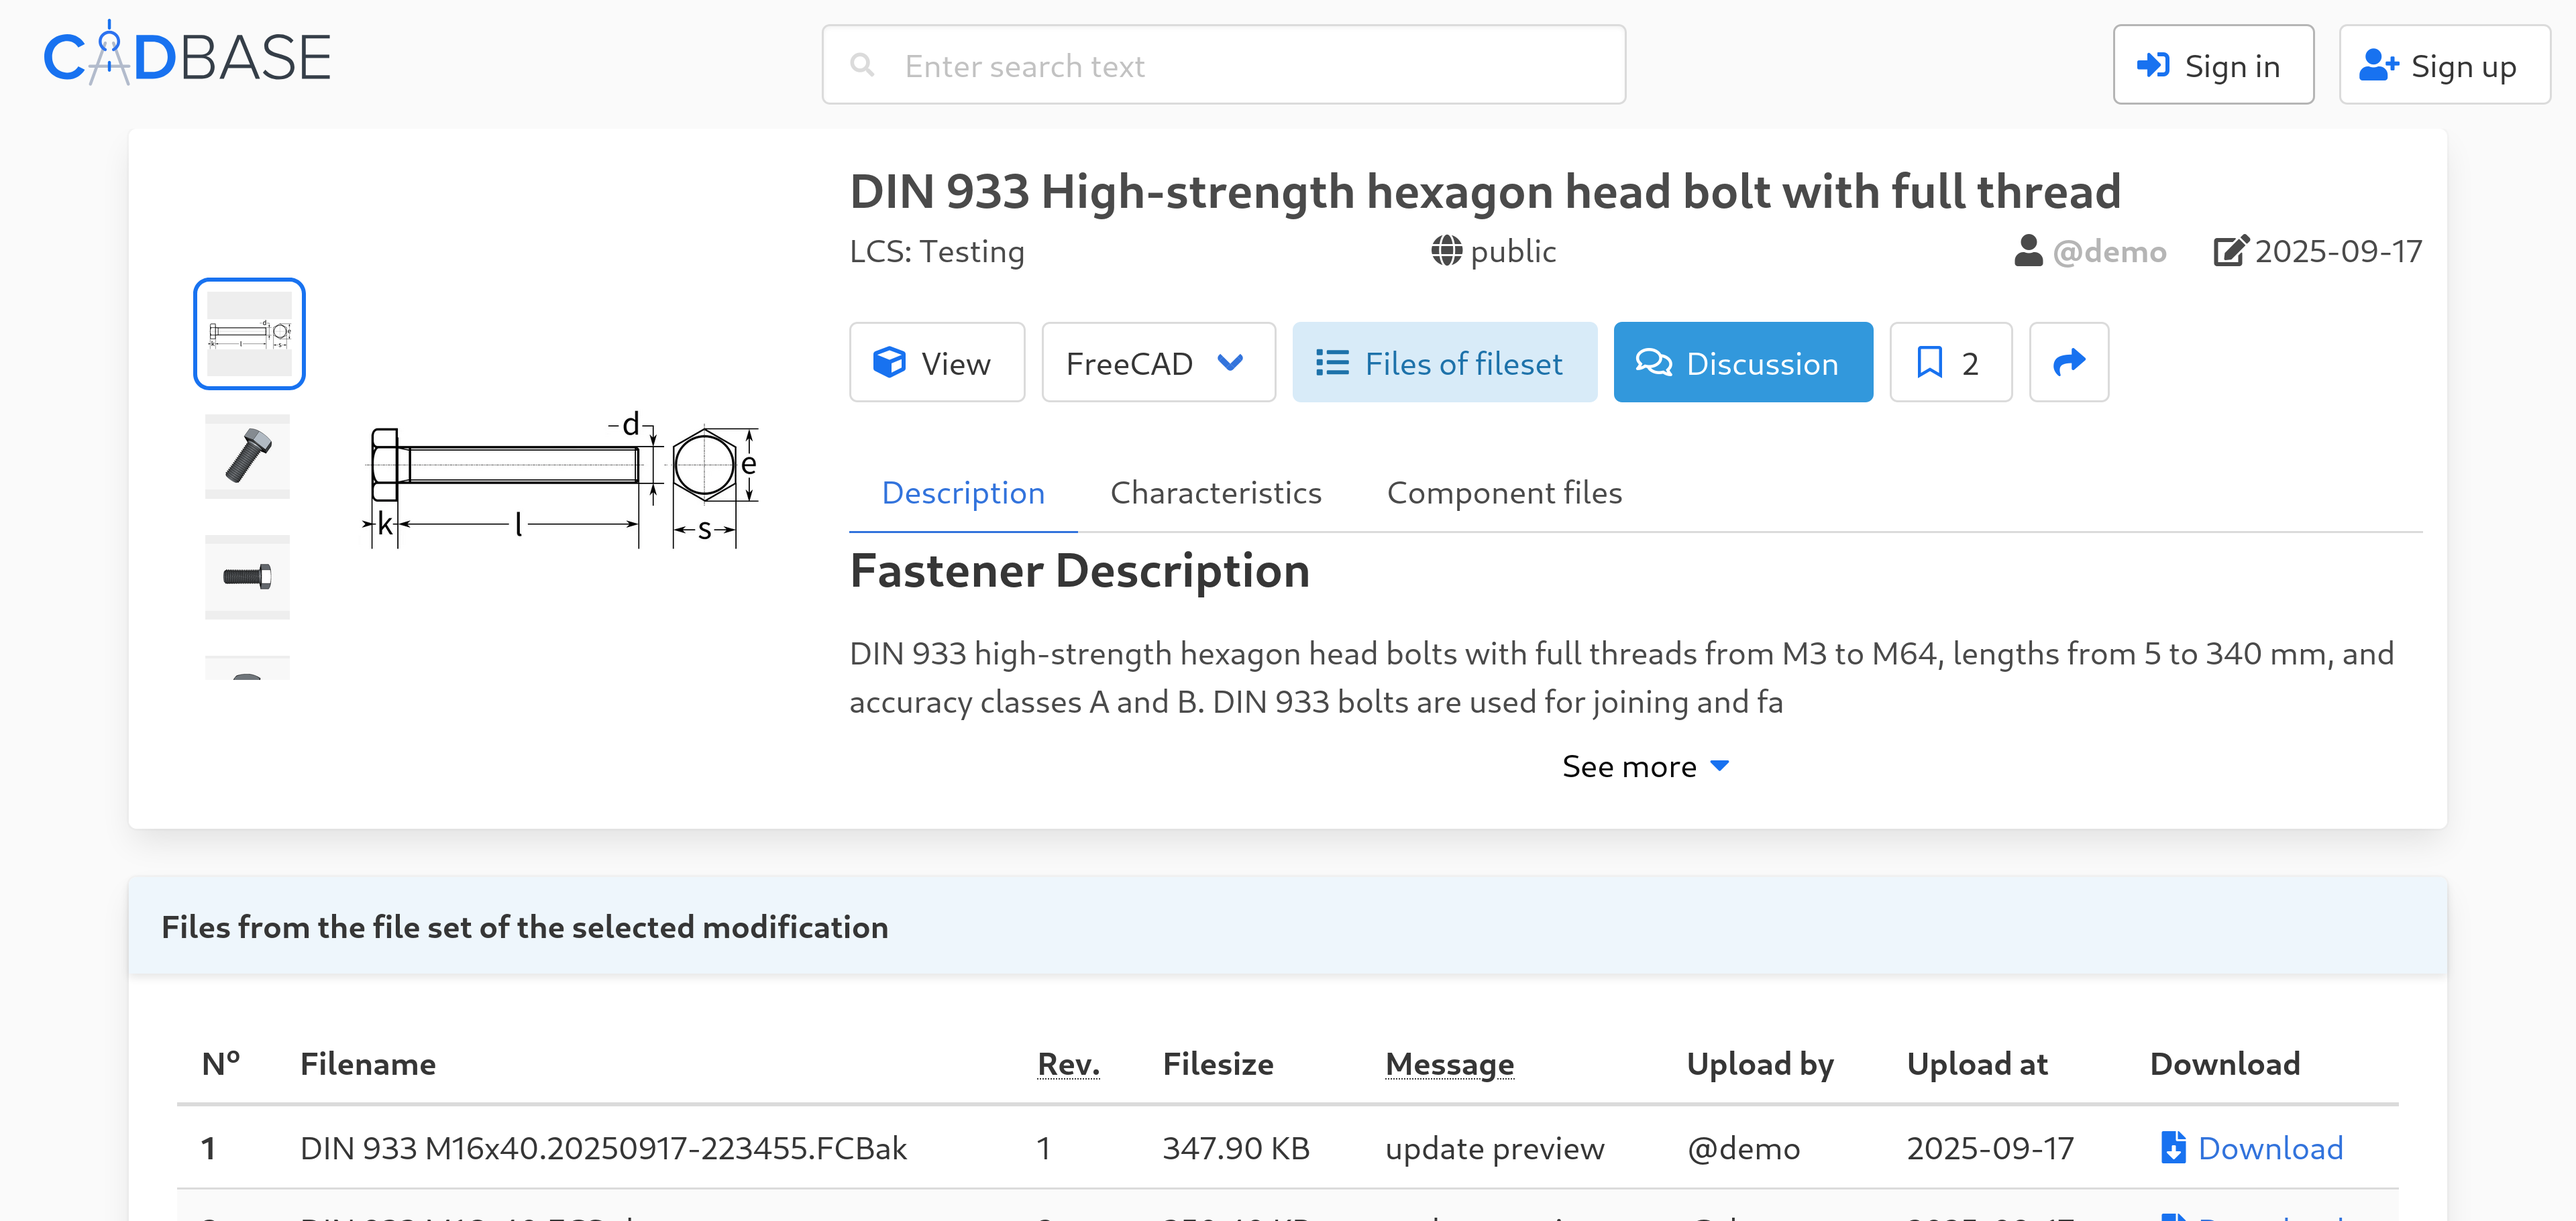
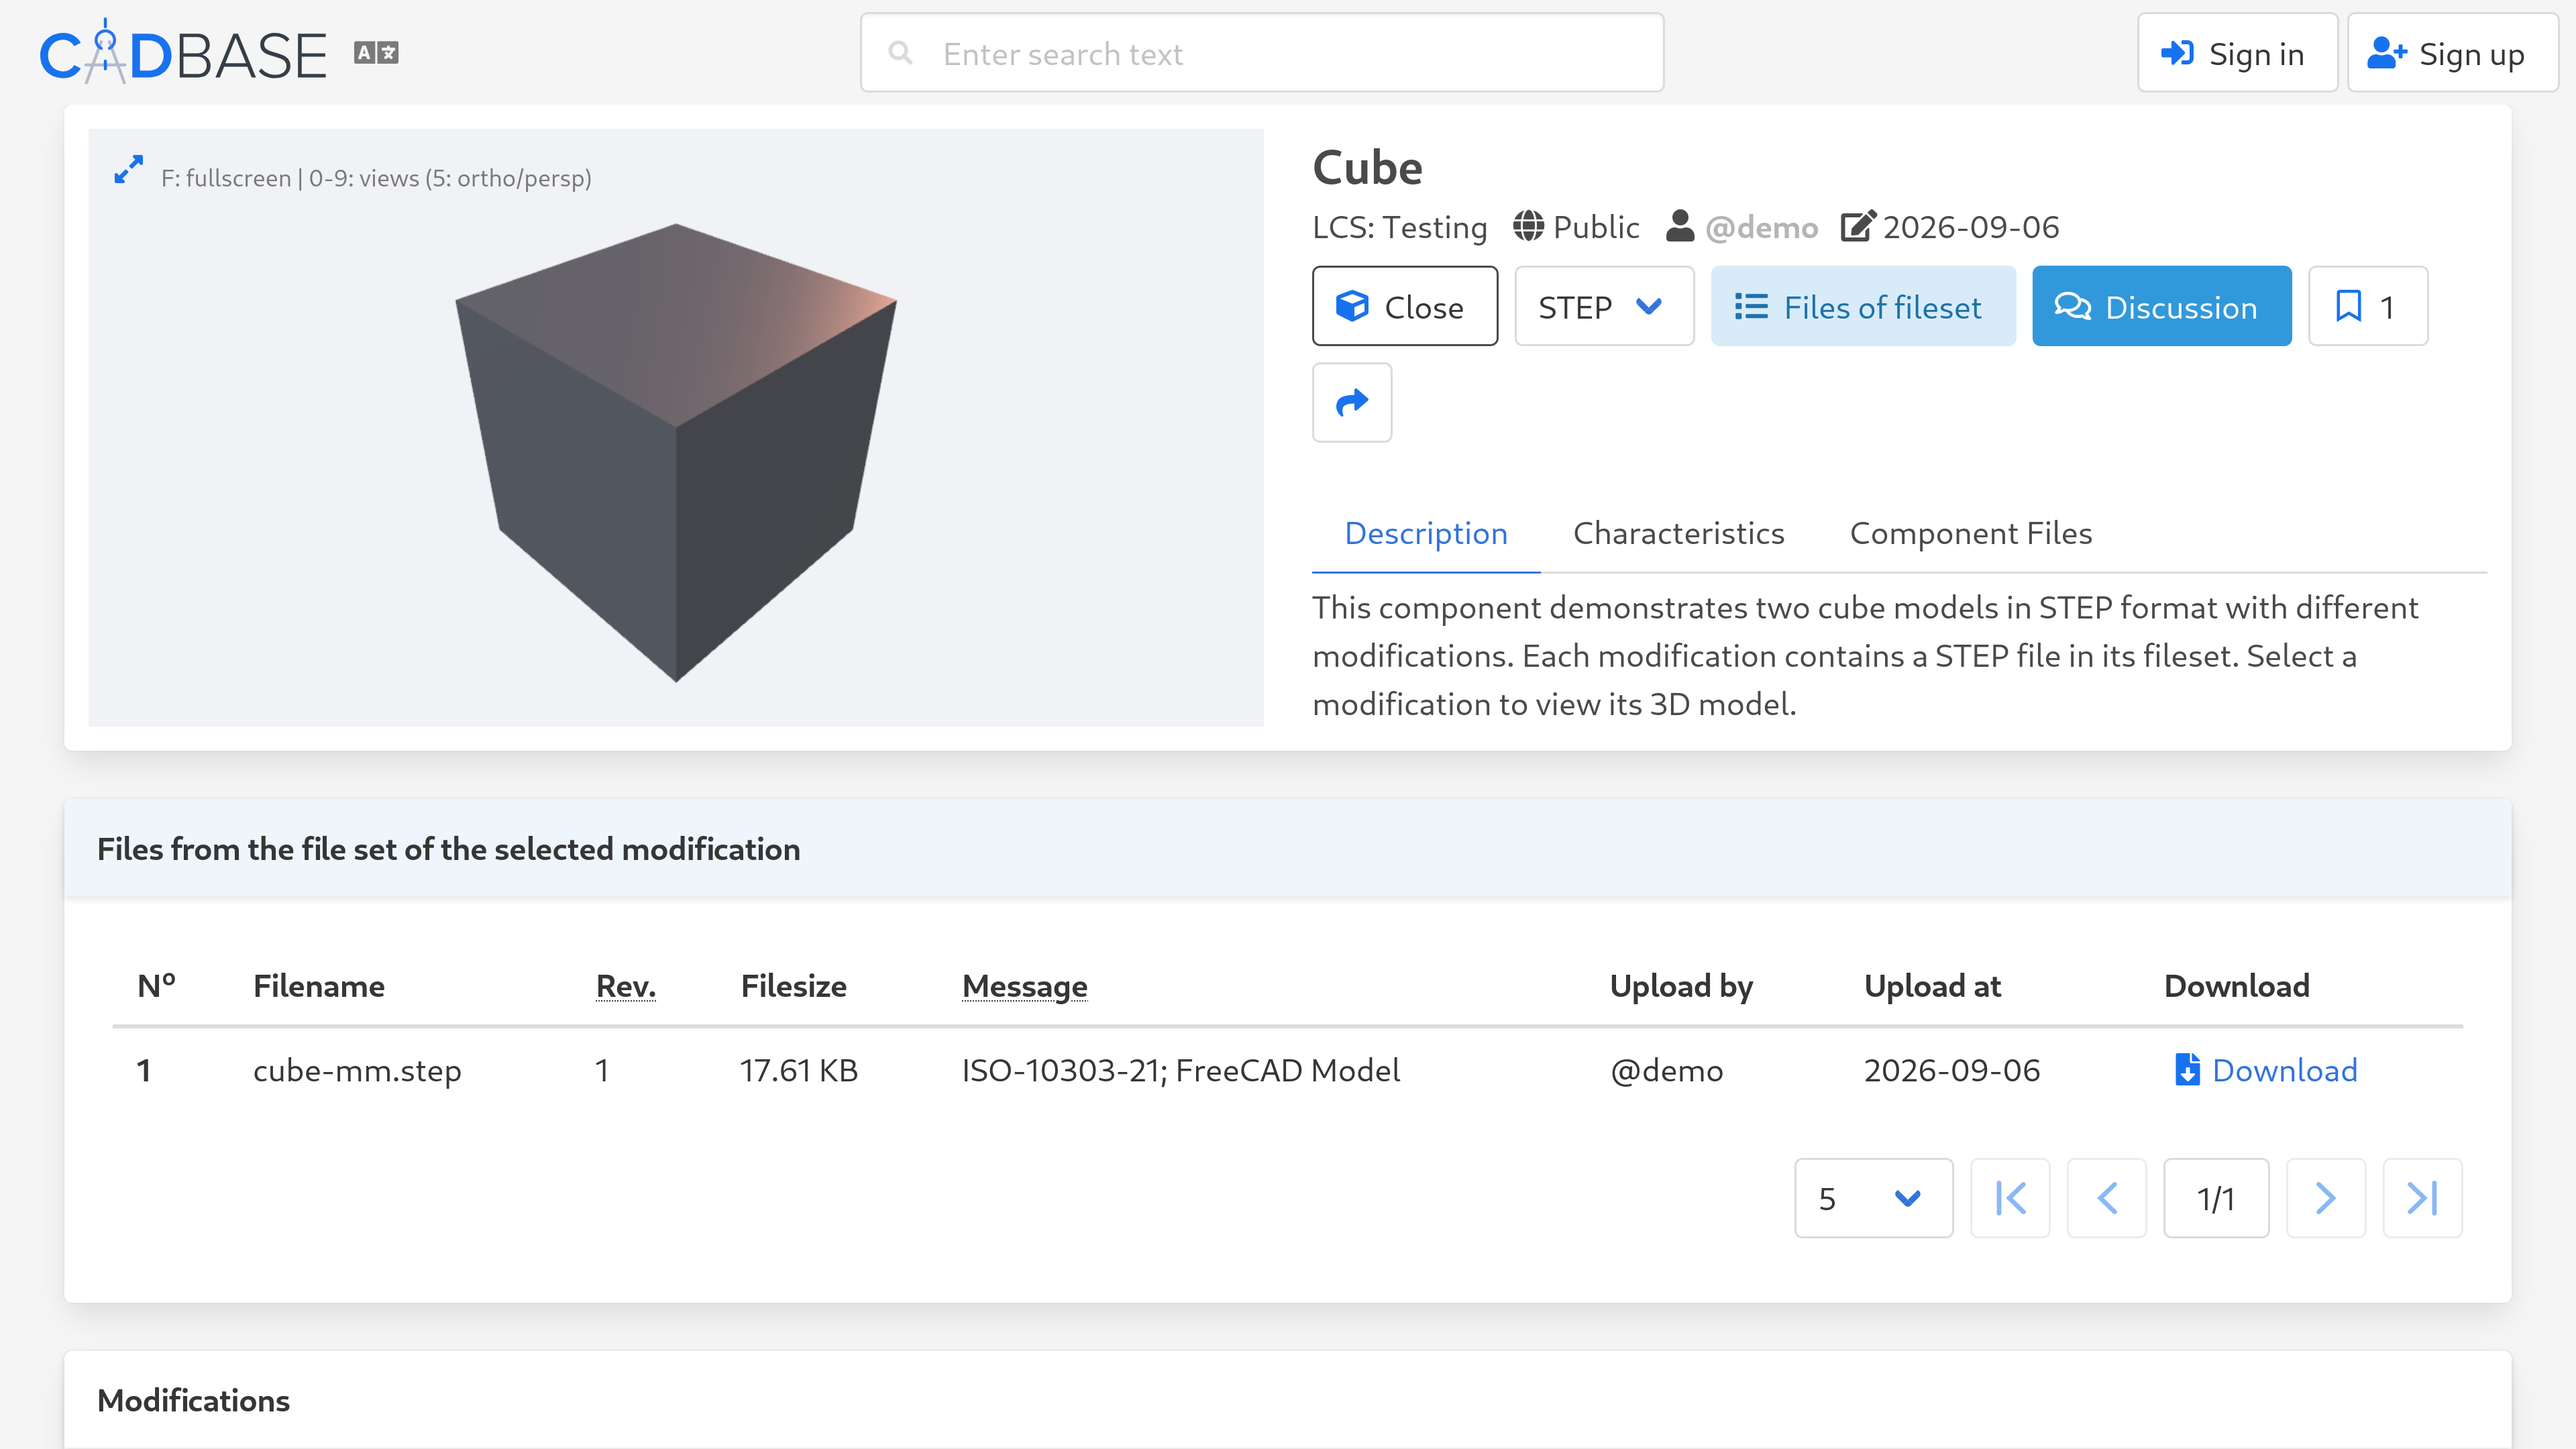
chore: refresh README content and assets

diff --git a/README.md b/README.md
@@ -105,7 +105,7 @@ We welcome contributions to new integrations!
 
 | Other libraries |
 | ------------- |
-| [![router][router]][router-url] [![yewtil][yewtil]][yewtil-url] [![bindgen][bindgen]][bindgen-url] [![logger][logger]][logger-url] [![instant][instant]][instant-url] [![lipsum][lipsum]][lipsum-url] [![log][log]][log-url] [![getrandom][getrandom]][getrandom-url] [![rand][rand]][rand-url] [![chrono][chrono]][chrono-url] [![dotenv_codegen][dotenv_codegen]][dotenv_codegen-url] [![lazy_static][lazy_static]][lazy_static-url] [![parking_lot][parking_lot]][parking_lot-url] [![cmark][cmark]][cmark-url] [![serde][serde]][serde-url] [![regex][regex]][regex-url] [![serde_json][serde_json]][serde_json-url] [![thiserror][thiserror]][thiserror-url] [![graphql_client][graphql_client]][graphql_client-url] [![wee_alloc][wee_alloc]][wee_alloc-url] [![web-sys][web-sys]][web-sys-url] [![wasm-bindgen-test][wasm-bindgen-test]][wasm-bindgen-test-url] [![toml][toml]][toml-url] [![js-sys][js-sys]][js-sys-url] [![console_error_panic_hook][console_error_panic_hook]][console_error_panic_hook-url] [![anyhow][anyhow]][anyhow-url] |
+| [![router][router]][router-url] [![yewtil][yewtil]][yewtil-url] [![bindgen][bindgen]][bindgen-url] [![logger][logger]][logger-url] [![instant][instant]][instant-url] [![lipsum][lipsum]][lipsum-url] [![log][log]][log-url] [![getrandom][getrandom]][getrandom-url] [![rand][rand]][rand-url] [![chrono][chrono]][chrono-url] [![dotenv_codegen][dotenv_codegen]][dotenv_codegen-url] [![cmark][cmark]][cmark-url] [![serde][serde]][serde-url] [![regex][regex]][regex-url] [![serde_json][serde_json]][serde_json-url] [![thiserror][thiserror]][thiserror-url] [![graphql_client][graphql_client]][graphql_client-url] [![wee_alloc][wee_alloc]][wee_alloc-url] [![web-sys][web-sys]][web-sys-url] [![wasm-bindgen-test][wasm-bindgen-test]][wasm-bindgen-test-url] [![toml][toml]][toml-url] [![js-sys][js-sys]][js-sys-url] [![console_error_panic_hook][console_error_panic_hook]][console_error_panic_hook-url] [![anyhow][anyhow]][anyhow-url] |
 
 
 Many thanks to all of you who have contributed to the projects listed above and to the projects listed in the <a href="#acknowledgments">Acknowledgments</a> section! Your input has allowed us to make CADBase better and faster.
@@ -162,9 +162,11 @@ For API details: [docs.cadbase.rs](https://docs.cadbase.rs)
 
 ### Current State
 - File versioning system
-- 3D Viewer (STL, GCODE, GLTF/GLB, IFC via Three.js)
+- 3D Viewer (STL, GCODE, GLTF/GLB, STEP, IFC via Three.js)
 - Search functionality
 - Multi-language support (English, Russian, Chinese)
+- API key management for secure integration access
+- Role-Based Access Control (RBAC) for companies and components
 
 ### In Progress
 - User guides, API examples, and integration tutorials
@@ -261,10 +263,6 @@ Xia TianHao - [Sansx](https://github.com/sansx) (GitHub)
 [chrono-url]: https://docs.rs/chrono
 [dotenv_codegen]: https://img.shields.io/badge/dotenv_codegen-blue
 [dotenv_codegen-url]: https://github.com/dtolnay/dotenv_codegen
-[lazy_static]: https://img.shields.io/badge/lazy_static-blue
-[lazy_static-url]: https://github.com/dtolnay/lazy_static
-[parking_lot]: https://img.shields.io/badge/parking_lot-blue
-[parking_lot-url]: https://docs.rs/parking_lot
 [cmark]: https://img.shields.io/badge/cmark-blue
 [cmark-url]: https://docs.rs/pulldown-cmark
 [serde]: https://img.shields.io/badge/serde-blue
